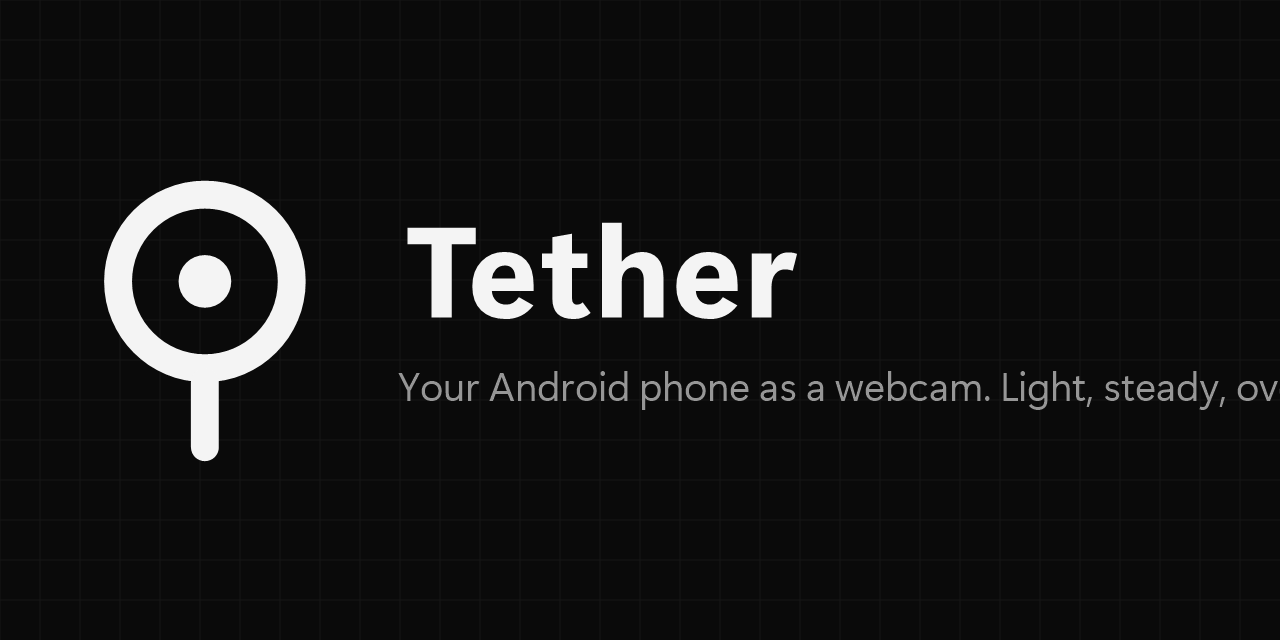
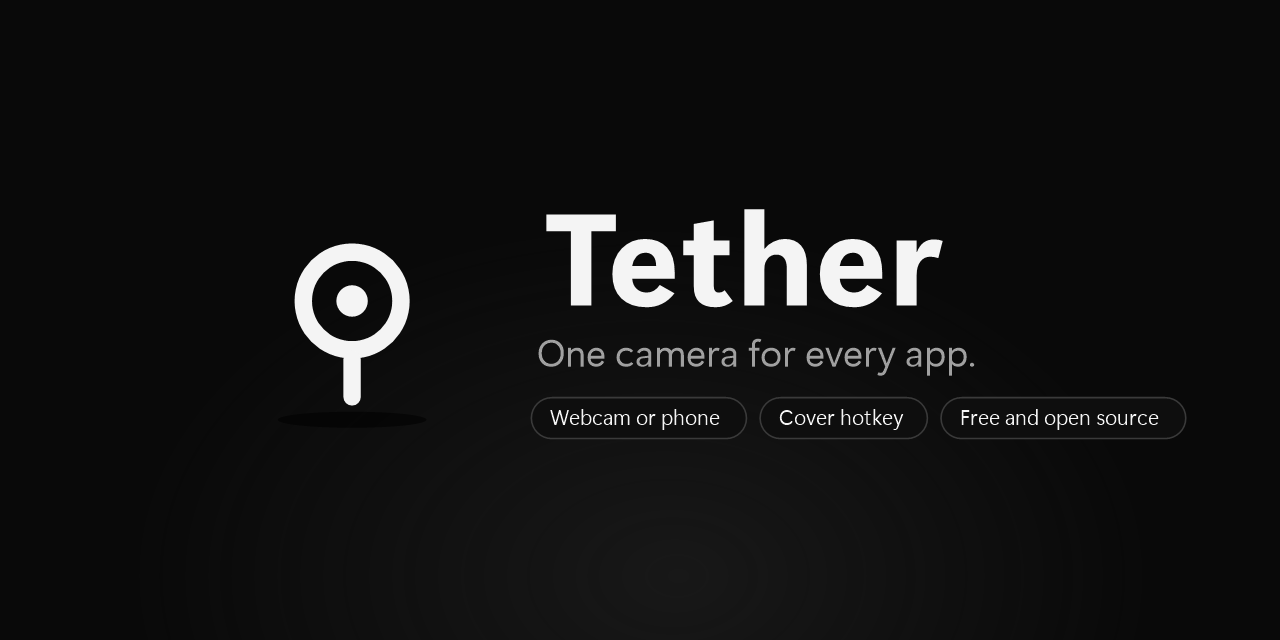
Present Tether as a webcam tool with the phone as one source
New banner with tags, README and setup text lead with "one camera for every app",
and a first start uses the PC's webcam when there is one.

Changed region(s): [[0.0625, 0.2812, 0.75, 0.7188], [0.3125, 0.5312, 1.0, 0.6875]]

diff --git a/pc/app/src/engine.rs b/pc/app/src/engine.rs
@@ -104,7 +104,9 @@ impl Shared {
 }
 
 pub fn start() -> (Arc<Shared>, Sender<Cmd>) {
-    let settings = Settings::load();
+    let saved = Settings::load_saved();
+    let first_run = saved.is_none();
+    let settings = saved.unwrap_or_default();
     let shared = Arc::new(Shared {
         status: Mutex::new(Status {
             phase: Phase::Searching("Starting…".into()),
@@ -168,7 +170,7 @@ pub fn start() -> (Arc<Shared>, Sender<Cmd>) {
     let (s3, tx4) = (shared.clone(), tx.clone());
     std::thread::Builder::new()
         .name("tether-engine".into())
-        .spawn(move || Engine::new(s3, rx, tx4, settings, hotkeys).run())
+        .spawn(move || Engine::new(s3, rx, tx4, settings, hotkeys).run(first_run))
         .expect("engine thread");
     (shared, tx)
 }
@@ -242,7 +244,7 @@ impl Engine {
         self.shared.status(|s| s.cover_error = err);
     }
 
-    fn run(mut self) {
+    fn run(mut self, first_run: bool) {
         unsafe {
             let _ = CoInitializeEx(None, COINIT_MULTITHREADED);
             let _ = MFStartup(MF_VERSION, MFSTARTUP_FULL);
@@ -257,6 +259,14 @@ impl Engine {
             }
         };
         let webcams = webcam::list();
+        // First start: use the PC's webcam if it has one; the phone is one click away under Source.
+        if first_run {
+            let mut s = self.settings.clone();
+            if let Some(cam) = webcams.first() {
+                s.source = Source::Webcam { link: cam.link.clone(), name: cam.name.clone() };
+            }
+            self.apply_settings(s);
+        }
         self.shared.status(|s| s.webcams = webcams);
         while !self.quit {
             self.restart = false;

diff --git a/setup/SetupForm.cs b/setup/SetupForm.cs
@@ -65,7 +65,7 @@ internal sealed class SetupForm : Form
     {
         _page.Controls.Clear();
         _title.Text = "Tether";
-        _subtitle.Text = "Your Android phone as a webcam. Tether Camera shows up in Discord, OBS, Zoom and every other app.";
+        _subtitle.Text = "One camera for every app: your webcam or your phone, with a cover hotkey, zoom and filters.";
 
         bool installed = Installer.IsInstalled(_options.Folder);
         var desktop = new CheckOption { Text = "Add a desktop shortcut", Checked = _options.DesktopShortcut, Bounds = new Rectangle(0, 0, S(360), S(28)) };
@@ -130,8 +130,8 @@ internal sealed class SetupForm : Form
     {
         _page.Controls.Clear();
         _title.Text = "All set";
-        _subtitle.Text = "Tether waits in the tray next to the clock. Plug in your phone, then pick \"Tether Camera\" in your app.";
-        var hintText = SmallLabel("First time? Tether's Setup tab puts the app on your phone and shows how to turn on USB debugging.", 0, 0);
+        _subtitle.Text = "Tether waits in the tray next to the clock. Pick your webcam or phone in Tether, then \"Tether Camera\" in your app.";
+        var hintText = SmallLabel("Using your phone? Tether's Setup tab puts the app on it and shows how to turn on USB debugging.", 0, 0);
         hintText.ForeColor = Theme.Muted;
         var open = new FlatButton { Primary = true, Text = "Open Tether", Bounds = new Rectangle(S(220), S(178), S(140), S(40)) };
         var close = new FlatButton { Text = "Close", Bounds = new Rectangle(S(110), S(178), S(100), S(40)) };

diff --git a/pc/app/src/settings.rs b/pc/app/src/settings.rs
@@ -113,11 +113,9 @@ impl Settings {
         Some(PathBuf::from(std::env::var_os("APPDATA")?).join("Tether").join("settings.json"))
     }
 
-    pub fn load() -> Settings {
-        Self::path()
-            .and_then(|p| std::fs::read(p).ok())
-            .and_then(|b| serde_json::from_slice(&b).ok())
-            .unwrap_or_default()
+    /// The saved settings, or None on the very first start.
+    pub fn load_saved() -> Option<Settings> {
+        Self::path().and_then(|p| std::fs::read(p).ok()).and_then(|b| serde_json::from_slice(&b).ok())
     }
 
     pub fn save(&self) {

diff --git a/README.md b/README.md
@@ -22,43 +22,42 @@
 
 <br>
 
-Tether turns your Android phone into a webcam for your PC. Plug it in, and **Tether Camera** shows up in Discord, OBS,
-Zoom, Teams and your browser like any other camera. It's built to stay connected and stay out of the way: the phone
-encodes the video on its own hardware, the PC decodes it with Windows' built-in decoder, and nothing drops because a
-phone decided to save battery.
+Tether is a webcam tool for Windows. It adds one camera, **Tether Camera**, that Discord, OBS, Zoom, Teams and your
+browser see like any other, and puts everything you wish your webcam could do in front of it: a hotkey that covers you
+instantly, zoom and framing, filters, rotate and mirror. Feed it your normal webcam, or your Android phone over a
+USB cable with the free Tether phone app. Pick Tether Camera once in each app; switching sources, covering yourself or
+changing the look happens in Tether, and your apps never notice.
 
 ## Getting started
 
-1. **Install Tether on your PC.** Download `TetherSetup-x.y.z.exe` from the
+1. **Install Tether.** Download `TetherSetup-x.y.z.exe` from the
    [latest release](https://github.com/slashneck/Tether/releases/latest) and run it. Windows asks for admin rights once,
    because Tether Camera is added for the whole PC.
-2. **Turn on USB debugging on your phone.** Settings → About phone → tap *Build number* seven times, then Developer
-   options → *USB debugging*. Plug the phone in and tap *Allow*.
-3. **Put the app on your phone.** In Tether, open *Setup* → *Install on phone*. Prefer doing it yourself? Download
-   `Tether-x.y.z.apk` from the release page on your phone and open it.
-4. **Pick "Tether Camera"** in your app. That's it: from now on, plugging in is enough.
+2. **Pick a source** in Tether: any webcam on your PC, or your phone.
+3. **Pick "Tether Camera"** in your app. Done.
+
+**Using your phone?** Turn on USB debugging (Settings → About phone → tap *Build number* seven times, then Developer
+options → *USB debugging*), plug it in and tap *Allow*. Then *Setup* → *Install on phone* in Tether puts the app on it,
+and keeps it updated. Prefer doing it yourself? Download `Tether-x.y.z.apk` from the release page on your phone.
 
 ## Features
 
-**Built for the cable.** USB is the main way in: fast, private (nothing on your Wi‑Fi can connect), and immune to
-Wi‑Fi drops. A heartbeat notices a broken link within seconds and reconnects on its own, so a wiggled cable is a short
-freeze, not a restart.
-
-**Light on your PC.** The phone's hardware encoder does the heavy lifting, the PC decodes with Windows' own H.264
-decoder in low-latency mode, and the preview only runs while Tether's window is open.
-
-**No driver.** Tether Camera uses Windows 11's built-in virtual camera support. Nothing runs in the kernel, there's no
-driver to sign, and uninstalling leaves nothing behind.
+**One camera, any source.** Your webcam or your phone, switched in Tether while your apps keep seeing the same Tether
+Camera. No re-picking cameras in Discord mid-call.
 
 **Cover hotkey.** One global shortcut (Ctrl+Shift+H by default) swaps your camera for a picture or GIF of your choice,
-instantly, in every app at once. The same cover shows when the connection drops, instead of a frozen face.
-
-**Phone or webcam.** Use your phone, or any webcam plugged into the PC, as the source. Switch in Tether; your apps keep
-seeing the same Tether Camera.
+instantly, in every app at once. The same cover shows if the source drops, instead of a frozen face.
 
 **Zoom, framing and filters.** Zoom in and pan, fill/fit/stretch the frame, rotate and mirror, plus B&W, Noir, Warm,
 Cool, Vivid and Fade filters and brightness, contrast and saturation sliders. The preview shows exactly what your apps
 get.
+
+**No driver.** Tether Camera uses Windows 11's built-in virtual camera support. Nothing runs in the kernel, there's no
+driver to sign, and uninstalling leaves nothing behind.
+
+**Your phone as a webcam, done right.** Over USB: fast, private (nothing on your Wi‑Fi can connect) and immune to Wi‑Fi
+drops. The phone encodes on its own hardware, the PC decodes with Windows' built-in decoder, and a heartbeat reconnects
+by itself within seconds, so a wiggled cable is a short freeze, not a restart.
 
 **The phone stays out of the way.** Back or front camera, resolution, frame rate, quality and the flashlight are set from
 the PC. On the phone: a live preview you can switch off to save battery, and a screen that dims to minimum while
@@ -70,11 +69,11 @@ SHA-256. The phone app comes with the PC app, and Tether offers to update the ph
 ## Requirements
 
 - Windows 11 (virtual cameras arrived with Windows 11)
-- An Android phone with Android 8 or newer and a USB cable that carries data
+- A webcam, or an Android phone with Android 8 or newer and a USB cable that carries data
 
 ## Privacy
 
-Tether sends nothing anywhere. The video goes from your phone to your PC over the cable and nowhere else. The only
+Tether sends nothing anywhere. The video stays on your PC (and on the cable from your phone). The only
 network request Tether makes on its own is asking GitHub for the newest release, which you can switch off under
 *Setup → About*.
 
